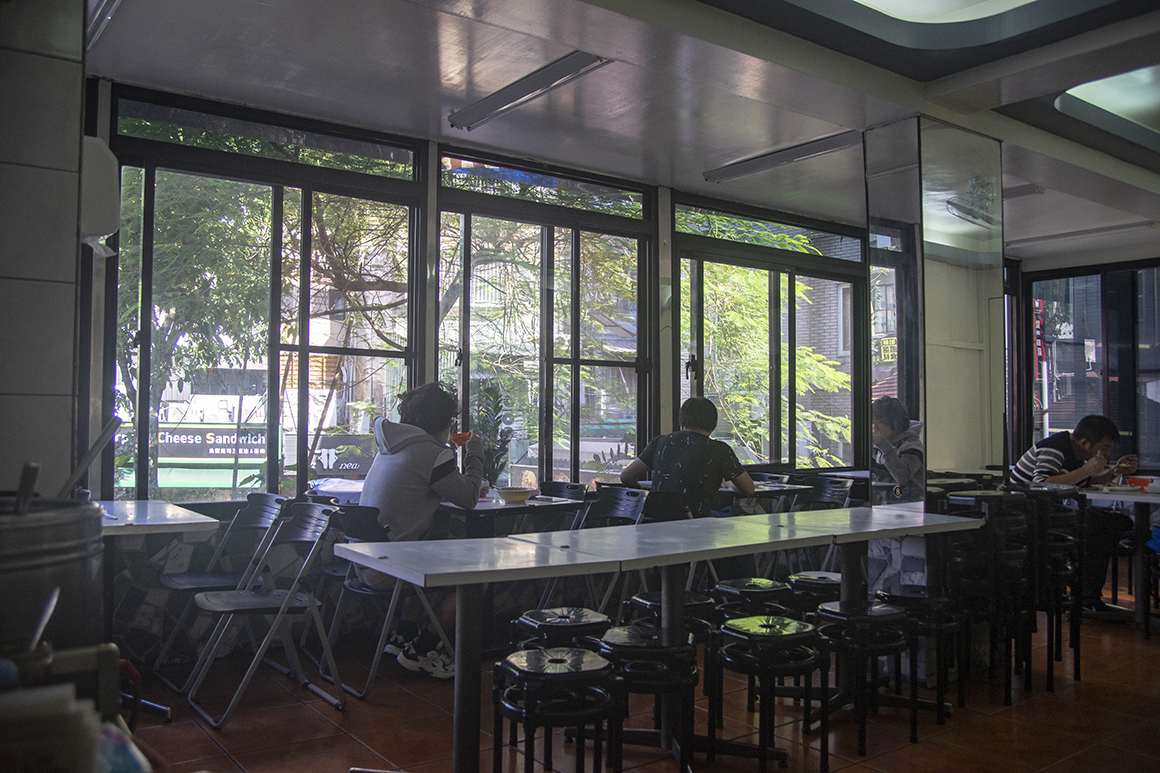
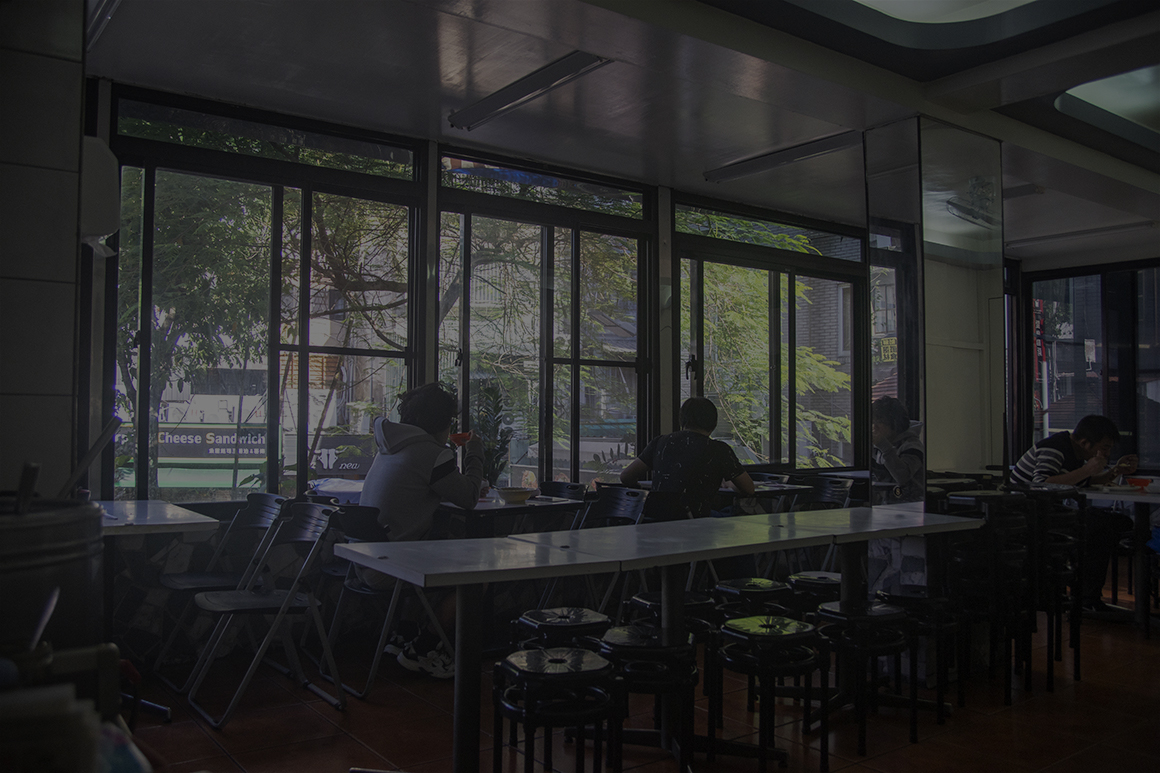
update 2 story

diff --git a/index.html b/index.html
@@ -89,17 +89,15 @@
   <h1>this is blank section for first animate</h1>
 </section>
 
-<section id="menu" ><!--MENU-->
-  <div  ></div>
-    <h1>this is menu section</h1>>
+<section id="menu"><!--MENU-->
+  <div>
+    <h1 style="color:black"></h1>>
   </div>
 </section>
 <section class="air"><h1>air</h1></section>
 
 <section id="menu2"><!--MENU-->
-  <div    >
-    <h1>this is menu2 section</h1>>
-  </div>
+ 
 </section>
 
 
@@ -110,18 +108,76 @@
 </div>
   
   <div class="sub1  sticky-top"id="story1-1" >
-    
+    <div class="container">
+      <div class="row">
+        
+          <div class="col-sm">
+            <h1 class="white-text"><span class="red">「</span>他們抽成太高了！<span class="green">」</span>
+            </h1>
+            
+          </div>
+      </div>
+      <div class="row">
+        <div class="col-sm">
+          <p  class="white-text">
+          時間回到2016年，Foodpanda的業務主動找上了母女的店，並積極洽談。當時老闆正好不在臺灣，店面由母親代為掌管，老人家覺得這樣的運作模式很有趣且新鮮，抱著試試看的心態加入。
+          </p>
+          <p>當時合作的過程中，母女的店營業額並沒有顯著提升，且在平台35%的抽成下，店家為維持利潤，必須將平台上面的菜單售價提高10元，有違老闆的意願，於是在半年後就解約了。
+          </p>
+        </div>
+      </div>
+    </div>
 
   </div>
   
 
 
   <div class="sub2 sticky-top" id="story1-2">
+    <div class="container">
+      <div class="row">
+        <div class="col-sm">
+         
+        </div>
+        <div class="col-sm">
+          <h1><span class="red">「</span>（外送平台）影響很大，生意有變差。<span class="green">」</span></h1>
+        </div>
+      <div class="row">
+        <div class="col-sm">
+         
+        </div>
+      <div class="col-sm">
+        <p>到了今年，加入外送平台對老闆娘來說已經不是可有可無的選擇，更像是為餐廳帶來轉機的一線希望，或者說是最後的退路。
+        </p>
+        <p>「以前餐廳數量沒有很多，像我們這種家庭式的店家很受歡迎，」老闆回憶過往。餐廳始終如一，大環境卻一直在變，如今面對競爭激烈的公館商圈，再加上外送平台的興起，母女的店面臨嚴重營運困境，來客數大幅萎縮，即使是用餐時段客人也只有寥寥數位。
+        </p>
+        <p>改變必須發生，加上眼看著附近的餐廳一家家的加入外送平台，老闆將目光轉回3年前的合作對象，準備重啟合作。不同的是，這次合作對象是Uber Eats，且是老闆主動上網報名說明會，態度上有了很大的轉變。
+        </p>
+        <p>「必須要跟上時代才能生存。」老闆說。</p>
+      </div>
+        </div>
+        
+      </div>
+    </div>
 
   </div>
   
 <!---->
   <div class="sub3 sticky-top " id="story1-3" >
+    <div class="container">
+      <div class="row">
+        <div class="col-sm">
+          <h1><span class="red">「</span>生意如果還是不好，就不會合作了。<span class="green">」</span>
+          </h1>
+          <p>對於餐廳轉型，老闆母親的想法又更進一步，希望改變整體營運方向，重新裝潢、更換餐點，並提高售價，讓餐廳走向精緻化。但老闆對此並不認同，認為高單價餐廳並不是她想經營的方向，且現在生意不是很好，如果再將價格提高，可能會流失掉更多客人。
+          </p>
+          <p>因此目前除了與平台業者合作之外，母女的店其它方面傾向維持現狀。
+
+          </p>
+          <p>未來，在加入外送平台後，老闆會給自己三個月的觀察期。如果生意還是沒有好轉，就會與外送平台解約，且很有可能再也不會考慮加入外送平台。
+          </p>
+        </div>
+      </div>
+    </div>
 
   </div>
 
@@ -131,23 +187,143 @@
     <img  src="img/Ticon.png" height="80px" ></img>
   </div>
   <div class="sub1  sticky-top"id="story2-1" >
-
+    <div class="container">
+      <div class="row">
+        <div class="col-sm">
+         
+        </div>
+        <div class="col-sm">
+            <h1>         </h1>
+        </div>
+      <div class="row">
+        <div class="col-sm">
+         
+        </div>
+      <div class="col-sm">
+      
+        <p style="margin-top: 350px;">台大牛莊於1974年開始營業，是家快五十年的老店，位在羅斯福路三段的公園後面，雖然隱藏在後頭，卻也有一定的名氣，是一間以麵、飯、湯為主的便當店。
+        </p>
+       
+      </div>
+        </div>
+        
+      </div>
+    </div>
   </div>
   
 
 
   <div class="sub2 sticky-top" id="story2-2">
+    <div class="container">
+      <div class="row">
+        <div class="col-sm">
+         
+        </div>
+        <div class="col-sm">
+            <h1>「使用者付費它會不會是說⋯會對我們是一個傷害。」
+            </h1>
+        </div>
+      <div class="row">
+        <div class="col-sm">
+         
+        </div>
+      <div class="col-sm">
+      
+        <p >三個月前，Uber Eats與Foodpanda的業務都曾分別拜訪台大牛莊。「再考慮看看啦！」，則是店家給這些業務的答案。
+        </p>
+        <p>
+          老闆對外送平台猶疑不決的一大主因其實在抽成上，他認為羊毛出在羊身上，消費者想要不出門在家享受餐點，需要付出代價，換句話說——平台上餐點的售價會比店內來得高。
 
+        </p>
+        <p>老闆認為顧客不見得能夠接受，看到比較貴的餐點，一方面會直覺性的不願意消費，另一方面，也可能會對店面留下不好的印象</p>
+        
+
+       
+      </div>
+        </div>
+        
+      </div>
+    </div>
   </div>
   
 <!---->
   <div class="sub3 sticky-top " id="story2-3" >
+    <div class="container">
+      <div class="row">
+        <div class="col-sm">
+         <h1>「外送的服務沒有很好。」</h1>
+        </div>
+        <div class="col-sm">
+            <h1>「我們現在還沒有想到這點（加入外送平台）。」</h1>
+        </div>
+      <div class="row">
+        <div class="col-sm">
+          <p>另外，根據自身的經歷和附近店家的經驗，讓老闆對外送平台的服務很憂慮。因為騎車速度快，老闆又擔心外送員趕時間，容易使得食物在運送過程中傾倒或變形。
+          </p>
+          <p>「他不像我們用封的，」老闆寧願自己送，覺得店內外送配備完善，可以保證品質，另一方面，老闆也認為平台本身不保障這部分的損失，即使有餐點毀損情形，外送員可能錢拿了就走，對店的形象不好。
+          </p>
+          <p>除了餐點的完整性，老闆也在乎外送員的服務態度，認為如果外送員的態度是客氣的，自己對合作的接受度會提高很多。
+          </p>
+          <p>「就像你們來我這邊吃飯，我們樓上服務品質不好，你下一次就不會想來了嘛，」老闆以餐廳經營的模式思考比：，食物多了三十塊，服務又不好，客人就不會想再光顧了。
+          </p>
+        </div>
+      <div class="col-sm">
+        
+        <p >台大牛莊自開店以來，一直以服務附近的學生和少數公司的團訂為主。老闆雖不諱言生意方面多少有受外送平台影響，尤其是大量便當的訂單部分。但對老闆而言，附近店家數量愈來愈多及人事成本的調漲更是影響營業利潤的主要原因。
 
+        </p>
+        <p>另外，跟其他店家不一樣的是，台大牛莊沒有租金成本。四十五年就搬到公館商圈的機運下，現下店面為老闆自己所有的，甚至還包括公園前的店面，相當於額外租金的收入，因此對於老闆來說，營業壓力小了非常多。</p>
+       <p>基於這些考量，老闆目前與外送平台合作的可能性似乎微乎其微。
+      </p>
+      </div>
+        </div>
+        
+      </div>
+    </div>
   </div>
 
 </div>
 
+<div class="round" id="story3" >
+  <div class="sticky-top" style="margin-left:20px">
+    <img  src="img/Dicon.png" height="80px" ></img>
+  </div>
+  <div class="sub1  sticky-top"id="story3-1" >
 
+  </div>
+  
+
+
+  <div class="sub2 sticky-top" id="story3-2">
+
+  </div>
+  
+<!---->
+  <div class="sub3 sticky-top " id="story3-3" >
+
+  </div>
+
+</div>
+<div class="round" id="story4" >
+  <div class="sticky-top" style="margin-left:20px">
+    <img  src="img/Yicon.png" height="80px" ></img>
+  </div>
+  <div class="sub1  sticky-top"id="story4-1" >
+
+  </div>
+  
+
+
+  <div class="sub2 sticky-top" id="story4-2">
+
+  </div>
+  
+<!---->
+  <div class="sub3 sticky-top " id="story4-3" >
+
+  </div>
+
+</div>
   <section style="height: 100vh;"></section>
 
 </div>

diff --git a/css/main.css b/css/main.css
@@ -8,6 +8,16 @@
 }
 h1 {
     text-align: center;
+    margin: 50px;
+    color:white;
+}
+.whitetext{
+    color: white;
+    font-family:sans-serif;
+}
+p{
+    color: white;
+    font-size: 20px;
 }
 #pbar{
     
@@ -108,15 +118,15 @@ section {
 }
 
 #menu{
-    
+    /*background-color:black ;*/
     /*background-image: url("assets/123.png");*/
-    border-radius:0px;
+    /*background-color:green;*/
     background-attachment: fixed;
     background-position: center;
     background-repeat: no-repeat;
     background-size: cover;
     background-image: url("../img/menu.jpg");
-    background-image: url("/img/menu.jpg");
+    
     z-index: -1;
 }
 #menu2{
@@ -193,16 +203,26 @@ section {
 
     }
 }
-
+.red{
+    color: #b32760;
+    font-size: 75px;
+}
+.green{
+    color: #7cb226;
+    font-size: 75px;
+    
+}
 
 #story1-1{
-    background-image: url("../img/M_4_1160x773.jpg");
-}
-#story1-2{
     background-image: url("../img/M_5_1160x773.jpg");
 }
+#story1-2{
+    background-image: url("../img/M_4_1160x773.jpg");
+}
 #story1-3{
+    -webkit-filter:brightness(0.9);
     background-image: url("../img/M_3_1160x773.jpg");
+    
 }
 #story2-1{
     background-image: url("../img/T_7_1160x773.jpg");
@@ -211,5 +231,18 @@ section {
     background-image: url("../img/T_5_1160x773.jpg");
 }
 #story2-3{
+    background-image: url("../img/T_2_1160x773.jpg");
+}
+
+
+#story3-1{
+    background-image: url("../img/T_2_1160x773.jpg");
+}
+
+#story3-2{
+    background-image: url("../img/T_2_1160x773.jpg");
+}
+
+#story3-3{
     background-image: url("../img/T_2_1160x773.jpg");
 }
